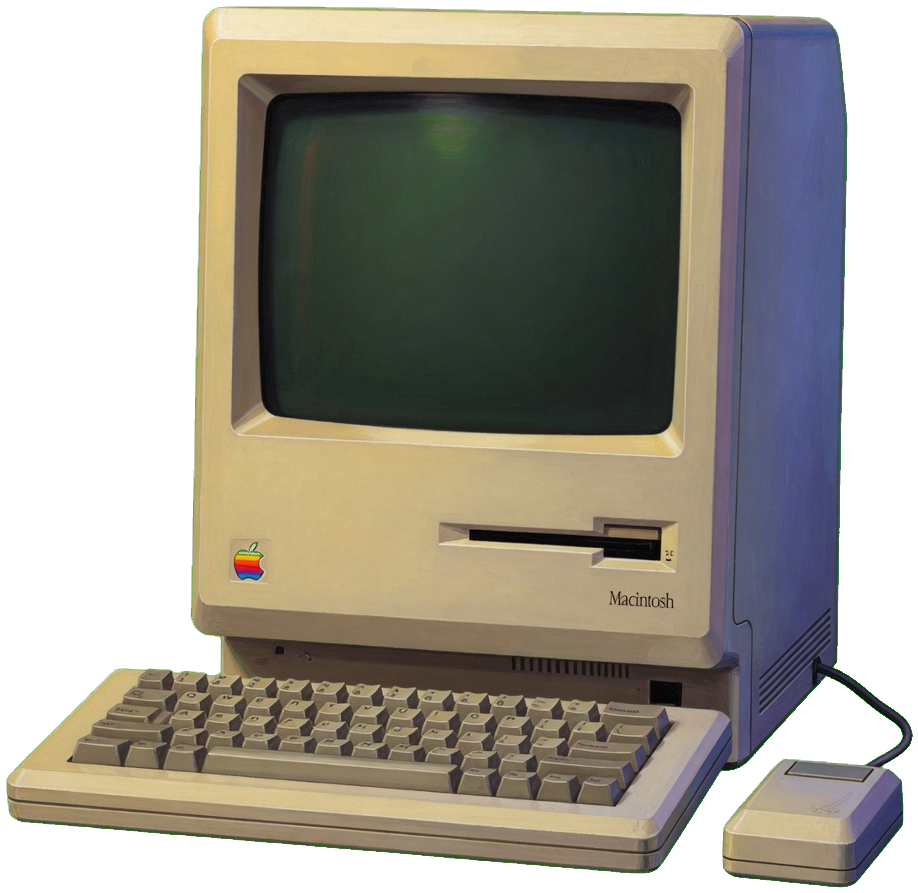
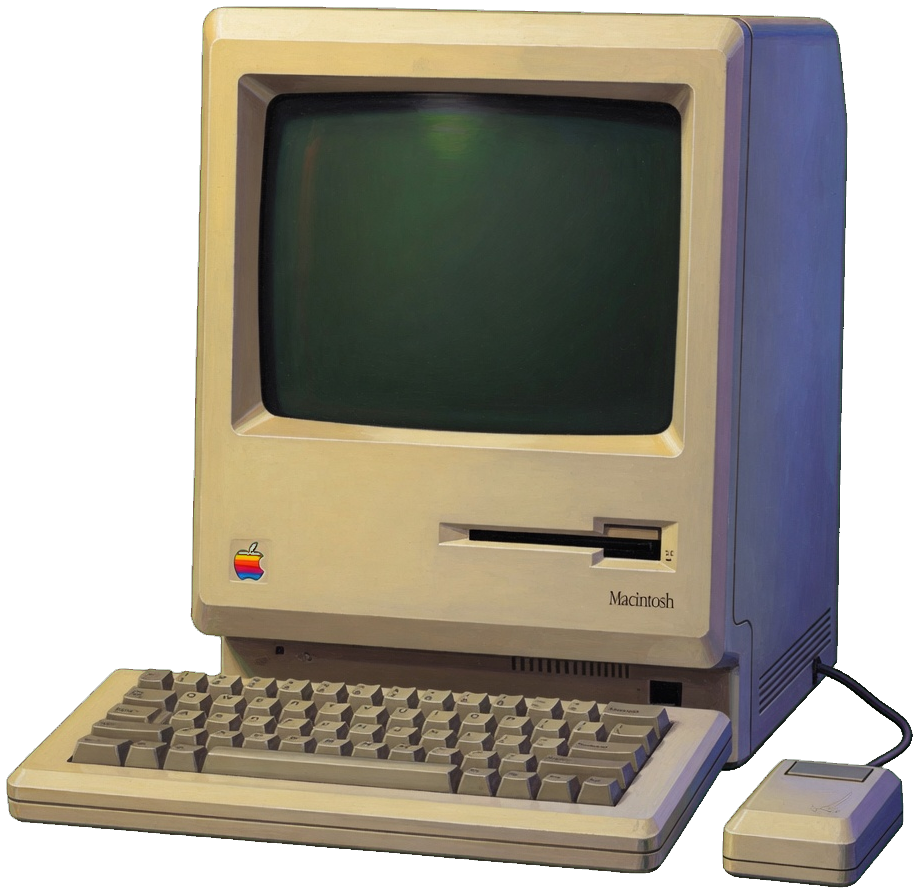
mac 1984: fuera el halo verde; teclado y raton encienden la pantalla
HALO: no era una orla de alfa sino un reborde VERDE pintado en pixeles
opacos. Medido, vive en una banda de 3 px pegada al contorno (3778 a
d=1, 1412 a d=2, 137 a d=3, cero mas adentro), mientras los 33.379
verdes interiores son el TUBO. Se neutraliza solo el exceso de verde de
esa banda -- R y B intactos, asi que el reborde conserva su luz y pierde
el tinte-- y el tubo ni se roza. El alfa no se toca.

MANDOS: el teclado y el raton eran dos enlaces a yokup. Ahora son los
mandos de la pantalla: TECLADO enciende el logo retro de Admira (va
DENTRO del plano proyectado, asi que la misma matriz lo tumba sobre el
tubo; se pinta como mascara sobre verde fosforo para salir monocromo
pase lo que pase con el SVG) y RATON saca la ultima mision cerrada con
detalle -- numero, hora, quien y de que iba, con la letra mas pequena
porque cabe mas texto. Pulsar otra vez devuelve a HOY: no se queda uno
atrapado en un modo.

MorfeoMacMini · MacMini

Changed region(s): [[0.976, 0.8163, 1.0, 0.8466], [0.915, 0.7559, 0.9455, 0.7861]]

diff --git a/assets/mac-hoy.js b/assets/mac-hoy.js
@@ -27,6 +27,49 @@ export function seatOf(mission) {
 export const IDLE_COPY = 'HOY\n…';
 export const ERROR_COPY = 'HOY\nsin cable';
 
+/* La pantalla tiene tres modos, y los periféricos del dibujo son los mandos:
+   el TECLADO enciende el logo de Admira y el RATÓN saca la última misión con
+   detalle. Volver a pulsar devuelve a HOY. */
+export const MODOS = ['hoy', 'detalle', 'logo'];
+
+export function envolver(txt, ancho, maxLineas) {
+  const palabras = String(txt == null ? '' : txt).trim().split(/\s+/).filter(Boolean);
+  const out = [];
+  let cur = '';
+  for (const p of palabras) {
+    const cand = cur ? cur + ' ' + p : p;
+    if (cand.length <= ancho) { cur = cand; continue; }
+    if (cur) out.push(cur);
+    if (out.length >= maxLineas) { cur = ''; break; }
+    cur = p.length > ancho ? p.slice(0, ancho - 1) + '…' : p;
+  }
+  if (cur && out.length < maxLineas) out.push(cur);
+  return out.slice(0, maxLineas);
+}
+
+export function ultimaMision(missions, day = todayMadrid()) {
+  return (Array.isArray(missions) ? missions : [])
+    .filter((m) => m && m.status === 'resolved' && isHoy(m, day))
+    .sort((a, b) => Number(b.updated_at || b.created_at || 0) - Number(a.updated_at || a.created_at || 0))[0] || null;
+}
+
+export function detalleLineas(missions, day = todayMadrid()) {
+  const m = ultimaMision(missions, day);
+  if (!m) return ['ULTIMA MISION', '', 'sin FLT done'];
+  const id = String(m.id || 'FLT-????').replace(/^FLT-/, '');
+  const quien = seatOf(m).split('·')[0].trim().slice(0, 15) || '—';
+  const ts = Number(m.updated_at || m.created_at || 0);
+  let hora = '';
+  if (ts) {
+    try {
+      hora = new Intl.DateTimeFormat('es-ES', { timeZone: 'Europe/Madrid', hour: '2-digit', minute: '2-digit', hourCycle: 'h23' })
+        .format(new Date(ts > 1e12 ? ts : ts * 1000));
+    } catch (_) { hora = ''; }
+  }
+  return ['ULTIMA MISION', '#' + id + (hora ? '  ' + hora : ''), quien, '']
+    .concat(envolver(m.subject || m.title || '', 16, 3));
+}
+
 export function linesFor(missions, day = todayMadrid()) {
   const rows = (Array.isArray(missions) ? missions : [])
     .filter((m) => m && m.status === 'resolved' && isHoy(m, day))
@@ -65,6 +108,7 @@ export async function fetchHoy(fetchImpl = fetch) {
 
 let visible = false;
 let focused = false;
+let modo = 'hoy';
 let beatTimer = null;
 let lastRoot = null;
 let lastFetch = fetch;
@@ -114,16 +158,38 @@ function watchScreen(root) {
   }
 }
 
+function aplicarModo(root) {
+  if (!root || !root.querySelectorAll) return;
+  root.querySelectorAll('#mac-hoy-prop, .mac-hoy-front-stage').forEach((el) => {
+    MODOS.forEach((m) => el.classList.toggle('modo-' + m, m === modo));
+  });
+}
+
+export function modoActual() { return modo; }
+
+export function setModo(nuevo, root = lastRoot || (typeof document !== 'undefined' ? document : null), fetchImpl = lastFetch) {
+  if (MODOS.indexOf(nuevo) < 0) return modo;
+  modo = nuevo;
+  if (!root) return modo;
+  lastRoot = root;
+  aplicarModo(root);
+  if (modo !== 'logo') draw(root, fetchImpl);   // el logo no escribe texto: es la pantalla entera
+  return modo;
+}
+
 async function draw(root, fetchImpl) {
   const mesa = root.querySelector('#mac-hoy-crt');
   const front = root.querySelector('#mac-hoy-crt-front');
   const prop = root.querySelector('#mac-hoy-prop');
   if (!mesa || !prop || !visible) return;
+  aplicarModo(root);
+  if (modo === 'logo') return;
   prop.classList.add('refreshing');
   if (mesa) mesa.textContent = IDLE_COPY;
   if (front) front.textContent = IDLE_COPY;
   try {
-    lastText = linesFor(await fetchHoy(fetchImpl)).join('\n');
+    const ms = await fetchHoy(fetchImpl);
+    lastText = (modo === 'detalle' ? detalleLineas(ms) : linesFor(ms)).join('\n');
     await paintCrt(mesa, lastText);
     if (front) await paintCrt(front, lastText);
   } catch (_) {
@@ -166,7 +232,7 @@ export function setVisible(on, root = lastRoot || (typeof document !== 'undefine
   visible = !!on;
   if (prop) prop.classList.toggle('on', visible);
   if (btn) btn.classList.toggle('active', visible);
-  if (!visible) closeFront(root);
+  if (!visible) { modo = 'hoy'; aplicarModo(root); closeFront(root); }
   if (visible) {
     fitScreen(root);              // oculto medía 0: el encaje se rehace al mostrarlo
     draw(root, fetchImpl);
@@ -197,6 +263,20 @@ export function boot(root = document, fetchImpl = fetch) {
     if (!visible) return;
     openFront(root, fetchImpl);
   });
+  // Los periféricos del dibujo son los mandos de la pantalla. Pulsar de nuevo
+  // el mismo devuelve a HOY, así que nunca se queda uno atrapado en un modo.
+  const mando = (sel, destino) => {
+    const el = root.querySelector(sel);
+    if (!el) return;
+    el.addEventListener('click', (e) => {
+      e.preventDefault();
+      e.stopPropagation();
+      if (!visible) return;
+      setModo(modo === destino ? 'hoy' : destino, root, fetchImpl);
+    });
+  };
+  mando('#mac-hoy-keys', 'logo');     // teclado -> logo de Admira
+  mando('#mac-hoy-mouse', 'detalle'); // ratón   -> última misión con detalle
   const front = root.querySelector('#mac-hoy-front');
   const close = root.querySelector('#mac-hoy-front-close');
   if (close) close.addEventListener('click', (e) => { e.stopPropagation(); closeFront(root); });
@@ -210,7 +290,7 @@ export function boot(root = document, fetchImpl = fetch) {
 }
 
 if (typeof window !== 'undefined' && typeof document !== 'undefined') {
-  window.MacHoy = { todayMadrid, isHoy, seatOf, linesFor, IDLE_COPY, ERROR_COPY, paintCrt, fetchHoy, boot, setVisible, toggle, isVisible, isFocused, openFront, closeFront, fitScreen, MAC_ART_W };
+  window.MacHoy = { todayMadrid, isHoy, seatOf, linesFor, IDLE_COPY, ERROR_COPY, paintCrt, fetchHoy, boot, setVisible, toggle, isVisible, isFocused, openFront, closeFront, fitScreen, MAC_ART_W, MODOS, setModo, modoActual, detalleLineas, ultimaMision, envolver };
   if (document.readyState === 'loading') document.addEventListener('DOMContentLoaded', () => boot());
   else boot();
 }

diff --git a/index.html b/index.html
@@ -1613,6 +1613,35 @@
                 0 0 44px rgba(48,220,110,.32);
             filter: blur(1.5px);             /* el haz nunca deja un borde perfecto */
         }
+        /* TRES MODOS DE PANTALLA (Carlos, 2026-09-19). Los periféricos del dibujo
+           son los mandos: el TECLADO enciende el logo y el RATÓN saca la última
+           misión con detalle. El logo va DENTRO del plano proyectado, así que la
+           misma matriz lo tumba sobre el tubo; se pinta como máscara sobre verde
+           fósforo para que salga monocromo pase lo que pase con el SVG. */
+        .mac-hoy-logo {
+            position: absolute;
+            left: 0;
+            top: 0;
+            width: 512px;
+            height: 342px;
+            display: none;
+            background: #b9ffc9;
+            -webkit-mask: url(/admira-logo-retro.svg) no-repeat center / 74% auto;
+            mask: url(/admira-logo-retro.svg) no-repeat center / 74% auto;
+            filter: drop-shadow(0 0 7px rgba(120,255,160,.85)) blur(.8px);
+            pointer-events: none;
+        }
+        .mac-hoy-logo-front { mix-blend-mode: screen; }
+        .modo-logo .mac-hoy-logo { display: block; }
+        .modo-logo .mac-hoy-crt,
+        .modo-logo .mac-hoy-crt-front { visibility: hidden; }
+        /* En detalle cabe más texto: letra menor y el bloque sube un poco. */
+        .modo-detalle .mac-hoy-crt,
+        .modo-detalle .mac-hoy-crt-front {
+            font-size: 26px;
+            line-height: 1.4;
+            padding-top: 40px;
+        }
         .mac-hoy-prop.refreshing .mac-hoy-glass::before { animation: mac-hoy-idle .4s linear infinite; }
         @keyframes mac-hoy-idle {
             0%, 100% { opacity: .4; }
@@ -1620,10 +1649,24 @@
         }
         .mac-hoy-keys, .mac-hoy-mouse {
             position: absolute;
-            z-index: 3;
+            z-index: 4;
             pointer-events: auto;
             cursor: pointer;
             background: transparent;
+            border: 0;
+            padding: 0;
+            appearance: none;
+            -webkit-appearance: none;
+            border-radius: 8px;
+            /* Son mandos, pero el dibujo manda: sólo un resplandor al pasar por
+               encima, nada de cajas ni bordes que delaten un botón encima. */
+            transition: box-shadow .18s ease, background-color .18s ease;
+        }
+        .mac-hoy-keys:hover, .mac-hoy-mouse:hover,
+        .mac-hoy-keys:focus-visible, .mac-hoy-mouse:focus-visible {
+            background-color: rgba(150,255,190,.10);
+            box-shadow: 0 0 12px rgba(120,255,160,.35);
+            outline: none;
         }
         .mac-hoy-keys { left: 1%; top: 57%; width: 63%; height: 32%; }
         .mac-hoy-mouse { left: 73%; top: 79%; width: 22%; height: 19%; }
@@ -1681,6 +1724,7 @@
         }
         .mac-hoy-front-stage img { width: 100%; height: auto; display: block; }
         .mac-hoy-crt-front,
+        .mac-hoy-logo-front,
         .mac-hoy-front-shade {
             position: absolute;
             left: 0;
@@ -3185,16 +3229,18 @@ body.rail-open{overflow:hidden}
                 <img src="assets/mac-1984-mesa.png" alt="Macintosh 1984 beige CRT sobre la mesa del Consejo">
                 <button type="button" class="mac-hoy-glass" id="mac-hoy-glass" title="Macintosh 1984 · pulsa la pantalla para leer Hoy">
                     <pre class="mac-hoy-crt" id="mac-hoy-crt">HOY</pre>
+                    <i class="mac-hoy-logo" aria-hidden="true"></i>
                 </button>
                 <div class="mac-hoy-shade" id="mac-hoy-shade" aria-hidden="true"></div>
-                <a class="mac-hoy-keys" id="mac-hoy-keys" href="https://www.yokup.com/misiones" target="_blank" rel="noopener" title="Misiones Yokup"></a>
-                <a class="mac-hoy-mouse" id="mac-hoy-mouse" href="https://www.yokup.com/misiones" target="_blank" rel="noopener" title="Misiones Yokup"></a>
+                <button type="button" class="mac-hoy-keys" id="mac-hoy-keys" title="Teclado · enciende el logo de Admira en la pantalla"></button>
+                <button type="button" class="mac-hoy-mouse" id="mac-hoy-mouse" title="Ratón · la última misión, con detalle"></button>
             </div>
             <div class="mac-hoy-front" id="mac-hoy-front">
                 <button type="button" class="mac-hoy-front-close" id="mac-hoy-front-close">Cerrar</button>
                 <div class="mac-hoy-front-stage">
                     <img src="assets/mac-1984-front.png" alt="Macintosh 1984 vista frontal">
                     <pre class="mac-hoy-crt-front" id="mac-hoy-crt-front">HOY</pre>
+                    <i class="mac-hoy-logo mac-hoy-logo-front" aria-hidden="true"></i>
                     <div class="mac-hoy-front-shade" aria-hidden="true"></div>
                 </div>
             </div>
@@ -3901,6 +3947,6 @@ body.rail-open{overflow:hidden}
 <script defer src="council-grokbot.js?v=20260918-r5-desk-cors"></script>
 <script defer src="app.flt-100529.js?v=20260919-r7-mac"></script>
 <script defer src="council-integration.js?v=20260918-r5-desk-cors"></script>
-<script type="module" src="assets/mac-hoy.js?v=20260919-crt-homografia"></script>
+<script type="module" src="assets/mac-hoy.js?v=20260919-mandos"></script>
 </body>
 </html>
